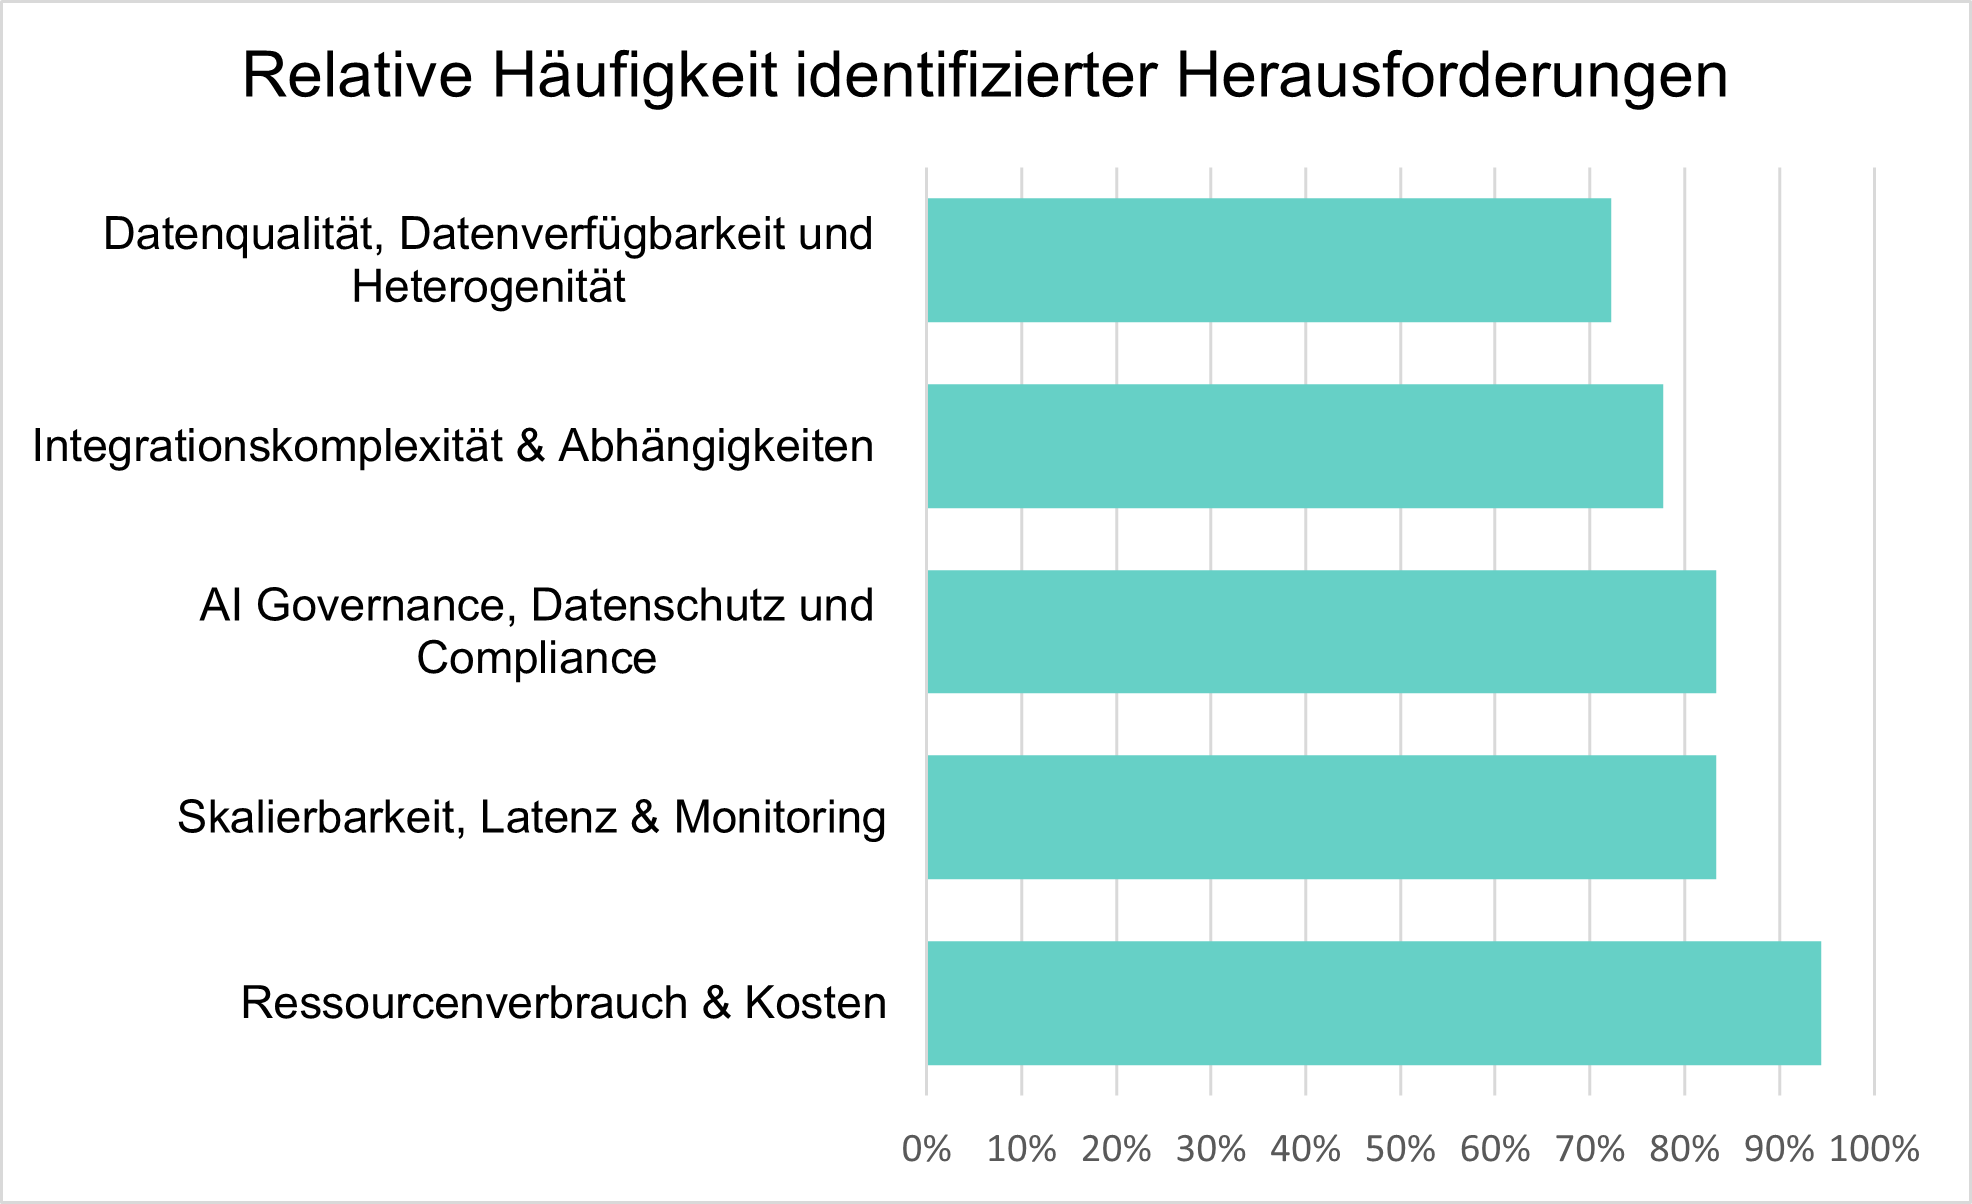
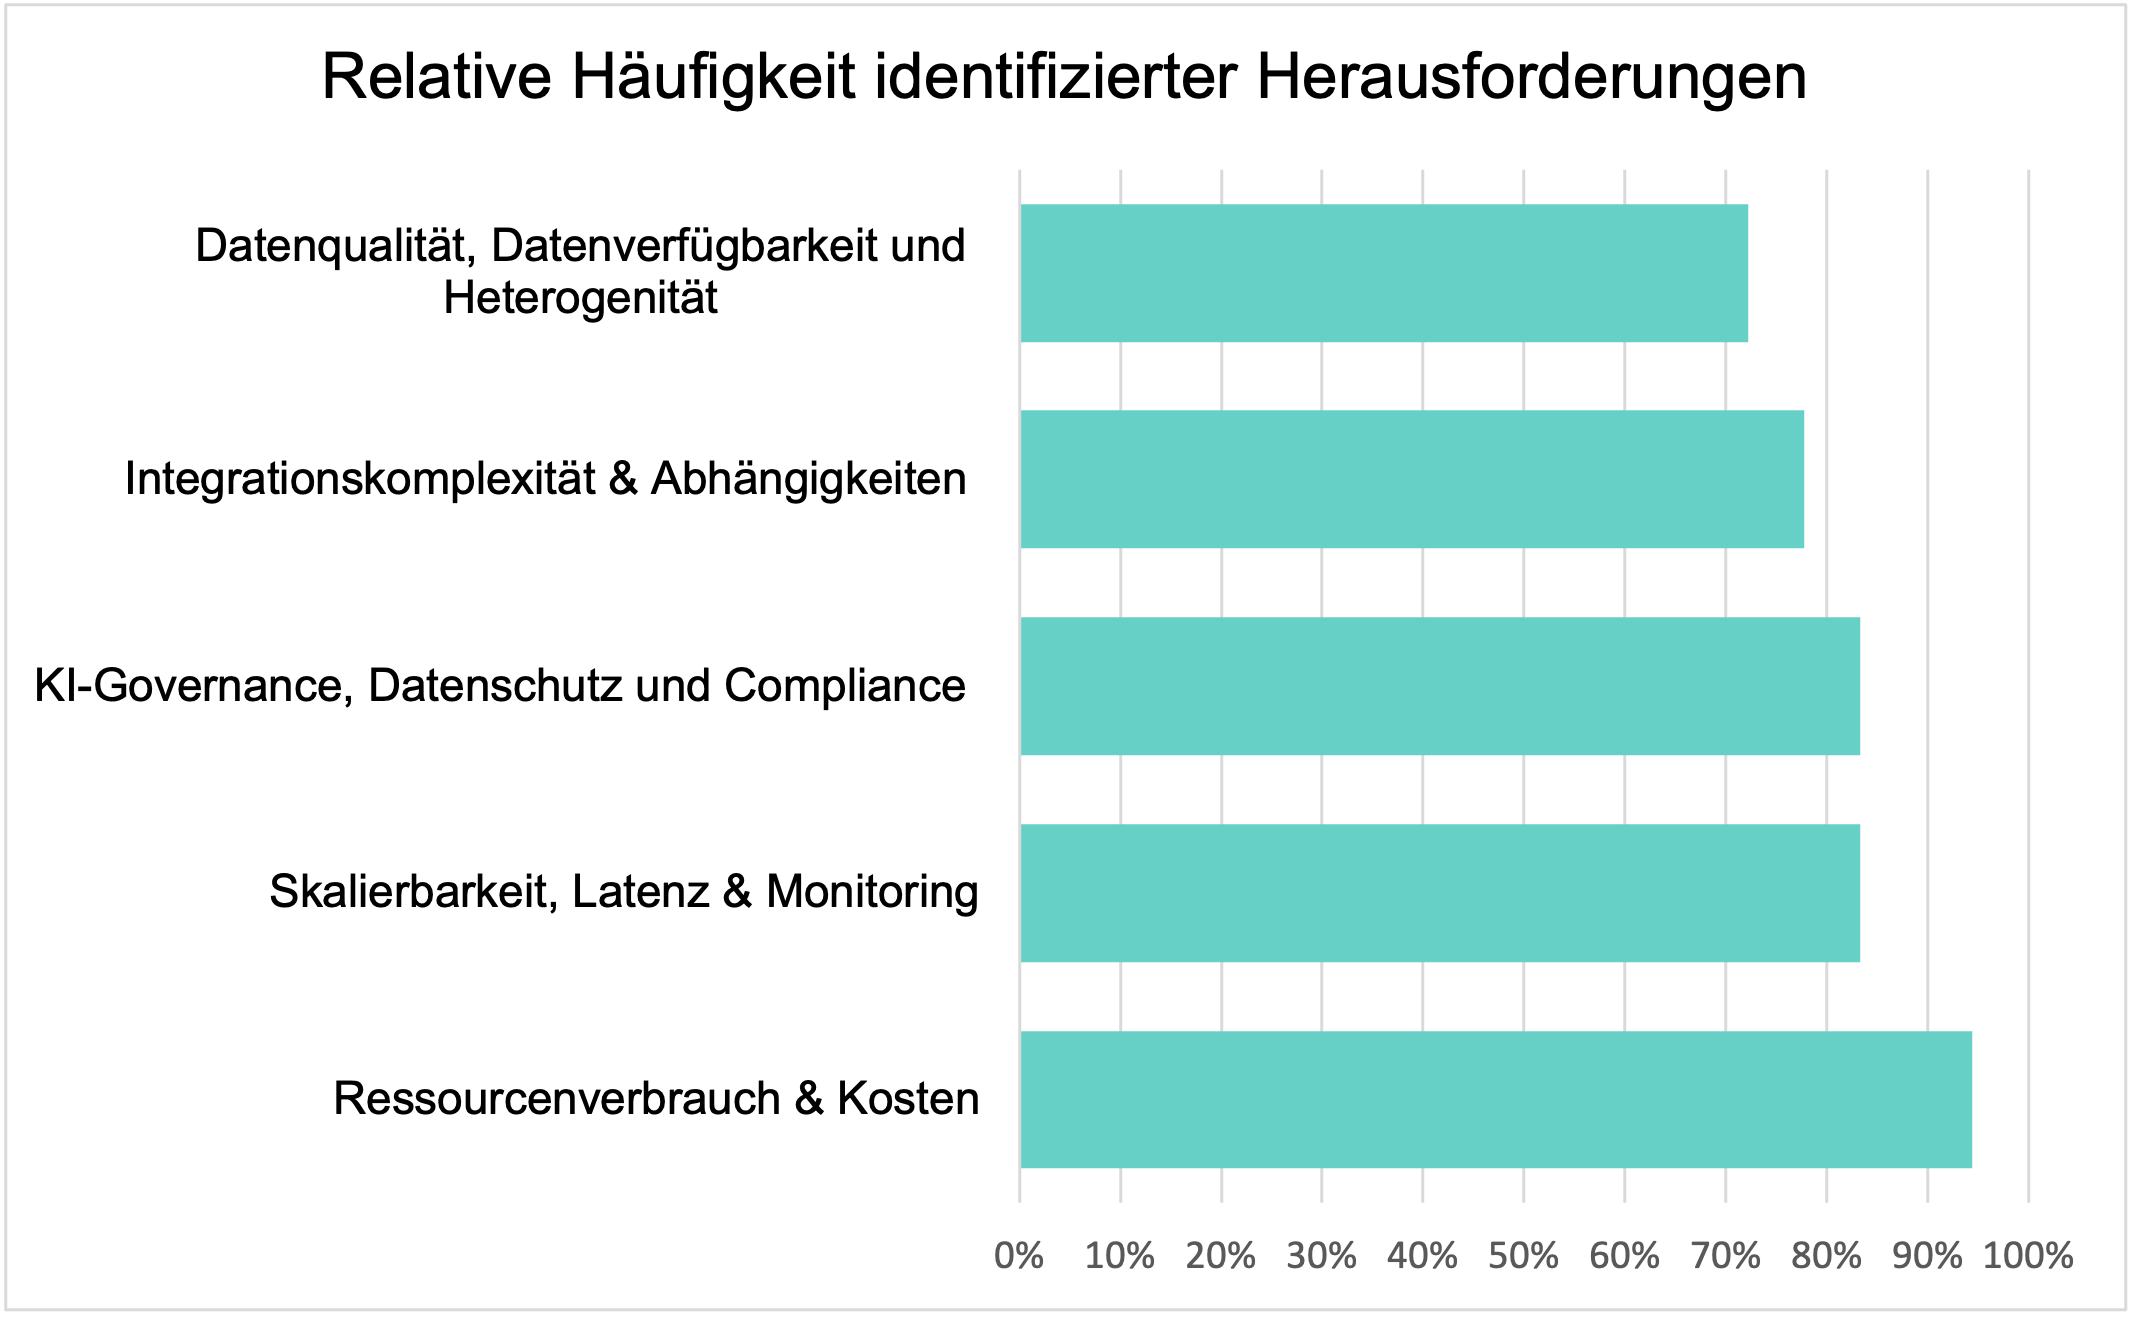
feat: 04_01 überarbeitet

diff --git a/chapters/subchapters/04_ergebnisse/04_01_quantitativAnalyse.tex b/chapters/subchapters/04_ergebnisse/04_01_quantitativAnalyse.tex
@@ -33,6 +33,7 @@ Dies deutet darauf hin, dass KI-Ansätze besonders im laufenden Betrieb relevant
 Die Optimierung von CI/CD-Pipelines und Sicherheits- und Bedrohungserkennung sind mit jeweils drei Publikationen vertreten.
 Das lässt sich daraus erklären, dass diese beiden Anwendungsfelder zwar in vielen Publikationen thematisiert werden, jedoch seltener als primärer Fokus der Studie dienen. 
 Die Optimierung der CI/CD-Pipeline wird oft als Teilaspekt in ein größeres Gesamtbild der Infrastruktur-Transformation behandelt \cite{supritpattanayakIntegratingAIDevOps2024}.
+
 Abbildung \ref{fig:04_01_01_useCases} zeigt diese Verteilung.
 Zu beachten ist, dass viele Studien mehr als einen Bereich ansprechen. 
 Für die Vergleichbarkeit wurde jedoch jeweils der dominante Use Case pro Publikation ausgewählt. 
@@ -53,12 +54,12 @@ Die analysierten Paper wurden fünf Kategorien zugeordnet.
 Die prozentuale ist in Abbildung \ref{fig:04_01_02_herausforderungen} dargestellt.
 
 Die Auswertung zeigt, dass Ressourcenverbrauch und Kosten mit 94 \% (17/18) am häufigsten als Herausforderung genannt werden. 
-Ebenfalls häufig werden Skalierbarkeit, Latenz und Monitoring mit 83\% (15/18) sowie AI Governance, Datenschutz und Compliance mit 83\% (15/18) adressiert.
+Ebenfalls häufig werden Skalierbarkeit, Latenz und Monitoring mit 83\% (15/18) sowie KI-Governance, Datenschutz und Compliance mit 83\% (15/18) adressiert.
 Integrationskomplexität und Abhängigkeiten werden in 78\% (15/18) der Studien thematisiert.
 Die fünfte Kategorie, Datenqualität, Datenverfügbarkeit und Heterogenität, wird in 72\% (13/18) der Arbeiten als Herausforderung genannt.
 
 Diese Ergebnisse deuten auf ein Spannungsfeld hin: KI wird zwar eingesetzt, um Plattformen effizienter und kostengünstiger zu betreiben, erzeugt jedoch durch Training, Inferenz und zusätzliche Observability- und Datenpipelines oft selbst signifikante Ressourcen- und Betriebskosten \cite{zaaloukCLOUDNATIVEARTIFICIAL}.
-Die hohe Nennung von AI Governance, Datenschutz und Compliance legt zudem nahe, dass der produktive KI-Einsatz in Plattformen häufig weniger an der reinen technischen Machbarkeit scheitert, sondern stark durch Anforderungen an Datenzugriff, Nachvollziehbarkeit und Regelkonformität begrenzt wird \cite{tamanampudiAIEnhancedContinuousIntegration}.
+Die hohe Nennung von KI-Governance, Datenschutz und Compliance legt zudem nahe, dass der produktive KI-Einsatz in Plattformen häufig weniger an der reinen technischen Machbarkeit scheitert, sondern stark durch Anforderungen an Datenzugriff, Nachvollziehbarkeit und Regelkonformität begrenzt wird \cite{tamanampudiAIEnhancedContinuousIntegration}.
 \begin{figure}[H]
     \centering
     \includegraphics[width=\textwidth]{figures/04_ergebnisse/04_01_quantitativ/04_01_02_herausforderungen.png}
